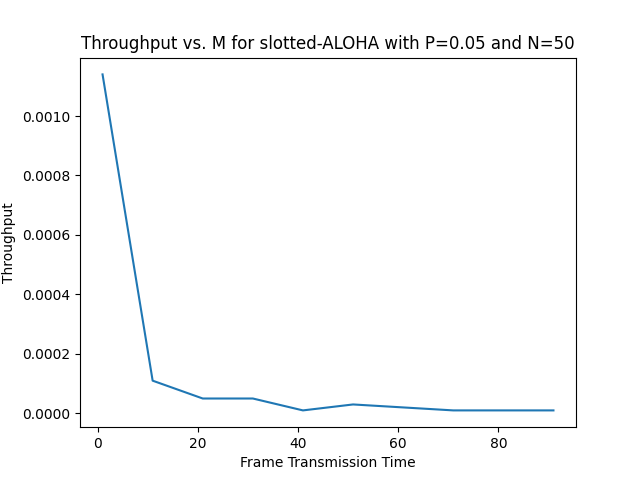
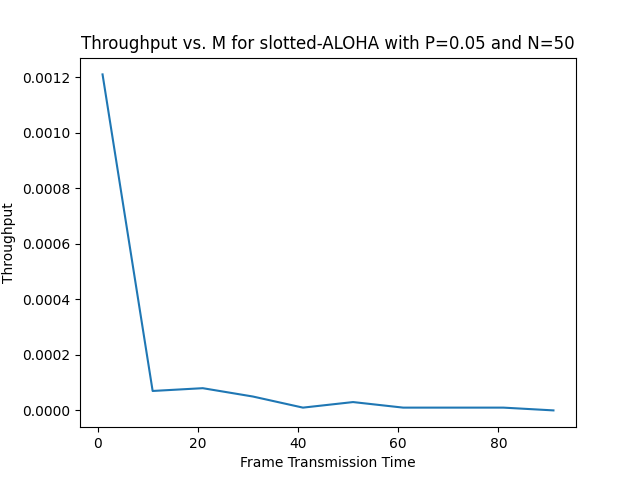
merge graphs, unslottted aloha not working yet

diff --git a/main.py b/main.py
@@ -1,105 +1,38 @@
-import random
-import matplotlib.pyplot as plt
-from tqdm.auto import tqdm
-    
-def simulateAloha(numStations, transmissionProb, frameTransTime, totalSimTime, slotted=False):
-    # Initialize the simulation state
-    state = [0] * numStations # 0 represents idle, 1 represents transmitting
-    frames = [0] * numStations # frames waiting to be transmitted
-    delay = [0] * numStations # delay of the current frame
-    successfulTransmissions = 0 # count of successfully transmitted frames
-    collisions = 0 # count of collisions
-    # Simulate the ALOHA protocol for (totalSimTime) time units
-    # show progress bar
-    for t in range(totalSimTime):
-        # Stations generate frames with probability (transmissionProb)
-        for i in range(numStations):
-            if random.random() < transmissionProb:
-                frames[i] += 1
-        # Stations transmit frames if they have any
-        for i in range(numStations):
-            # if the station is idle and has frames to transmit
-            if frames[i] > 0 and state[i] == 0:
-                # check if the station is in the delay period
-                if delay[i] > 0:
-                    delay[i] -= 1
-                    continue
-                # if slotted ALOHA, onl y transmit at the beginning of a time slot
-                if slotted and t % frameTransTime != 0:
-                    continue # not a valid time slot
-                state[i] = 1 # start transmitting
-                frames[i] -= 1 # decrement the number of frames to transmit
-        # Check for collisions
-        activeStations = sum(state) # number of stations transmitting
-        if activeStations > 1: # if more than one station is transmitting
-            collisions += 1
-            for i in range(numStations):
-                # if the station is transmitting
-                if state[i] == 1:
-                    frames[i] += 1 # increment the number of frames to transmit
-                    state[i] = 0 # stop transmitting
-                    delay[i] += random.randint(0, 10) * frameTransTime # set a random delay
-        elif activeStations == 1: # if exactly one station is transmitting
-            successfulTransmissions += 1
-            for i in range(numStations):
-                if state[i] == 1: # if the station is transmitting
-                    state[i] = 0 # stop transmitting
+from aloha import simulateAloha
+from plotting import plot_throughput_vs_N, plot_throughput_vs_M, plot_throughput_vs_MM
 
-    return successfulTransmissions, collisions, state
-
-def plot_throughput_vs_N(numStationsValues, transmissionProb, frameTransTime, totalSimTime, slotted=False):
-    throughputValues = []
-    for N in tqdm(numStationsValues):
-        successfulTransmissions, collisions, _ = simulateAloha(N, transmissionProb, frameTransTime, totalSimTime, slotted)
-        throughput = successfulTransmissions / totalSimTime
-        throughputValues.append(throughput)
-    plt.figure()
-    plt.plot(numStationsValues, throughputValues)
-    plt.xlabel('Number of Stations')
-    plt.ylabel('Throughput')
-    title = 'Throughput vs. N for {}-ALOHA with P={} and M={}'.format('slotted' if slotted else 'unslotted', transmissionProb, frameTransTime)
-    plt.title(title)
-    # plt.show()
-    plt.savefig('output/' + title + '.png')
-
-
-def plot_throughput_vs_M(numStations, transmissionProb, frameTransTimeValues, totalSimTime, slotted=False):
-    throughputValues = []
-    for frameTransTime in tqdm(frameTransTimeValues):
-        successfulTransmissions, _, _ = simulateAloha(numStations, transmissionProb, frameTransTime, totalSimTime, slotted)
-        throughput = successfulTransmissions / totalSimTime
-        throughputValues.append(throughput)
-    plt.figure()
-    plt.plot(frameTransTimeValues, throughputValues)
-    plt.xlabel('Frame Transmission Time')
-    plt.ylabel('Throughput')
-    title = 'Throughput vs. M for {}-ALOHA with P={} and N={}'.format('slotted' if slotted else 'unslotted', transmissionProb, numStations)
-    plt.title(title)
-    # plt.show()
-    plt.savefig('output/' + title + '.png')
 
 def main():
-    transmissionProb = 0.05 # probability of transmission
-    totalSimTime = 100000 # total simulation time
+    transmissionProb = 0.05  # probability of transmission
+    totalSimTime = 10000  # total simulation time
 
     # Plot throughput vs. N for both unslotted and slotted ALOHA
-    # numStationsValues = [10, 20, 30, 40, 50, 60, 70, 80, 90, 100]
-    numStationsValues = list(range(10, 101, 10))
-    frameTransTime = 1 # transmission time
-    plot_throughput_vs_N(numStationsValues, transmissionProb, frameTransTime, totalSimTime, slotted=False)
-    plot_throughput_vs_N(numStationsValues, transmissionProb, frameTransTime, totalSimTime, slotted=True)
+    numStationsValues = list(range(10, 101, 20))
+    frameTransTime = 1  # transmission time
+    plot_throughput_vs_N(numStationsValues, transmissionProb,
+                         frameTransTime, totalSimTime)
+    plot_throughput_vs_N(numStationsValues, transmissionProb,
+                         frameTransTime, totalSimTime)
 
     # Plot throughput vs. M for both unslotted and slotted ALOHA
-    numStations = 50 # number of stations
-    # frameTransTimes = [1, 2, 3, 4, 5, 6, 7, 8, 9, 10] # transmission time values to test
-    frameTransTimeValues = list(range(1, 101, 10)) # transmission time values to test
-    maxThroughput = numStations * transmissionProb * (1 - transmissionProb) ** (numStations - 1)
+    numStations = 10  # number of stations
+    # transmission time values to test
+    frameTransTimeValues = list(range(1, 51, 5))
+    maxThroughput = numStations * transmissionProb * \
+        (1 - transmissionProb) ** (numStations - 1)
     maxThroughputFrameTransTimeSlotted = 1 / (2 * transmissionProb)
     maxThroughputFrameTransTimeUnslotted = 1 / transmissionProb
-    plot_throughput_vs_M(numStations, transmissionProb, frameTransTimeValues, totalSimTime, slotted=False)
-    plot_throughput_vs_M(numStations, transmissionProb, frameTransTimeValues, totalSimTime, slotted=True)
-    print('Maximum throughput for unslotted ALOHA: {} at M = {}'.format(maxThroughput, maxThroughputFrameTransTimeUnslotted))
-    print('Maximum throughput for slotted ALOHA: {} at M = {}'.format(maxThroughput, maxThroughputFrameTransTimeSlotted))
-    
+    plot_throughput_vs_M(numStations, transmissionProb,
+                         frameTransTimeValues, totalSimTime)
+    plot_throughput_vs_M(numStations, transmissionProb,
+                         frameTransTimeValues, totalSimTime)
+    plot_throughput_vs_MM(numStations, transmissionProb,
+                         frameTransTimeValues, totalSimTime)
+    print('Maximum throughput for unslotted ALOHA: {} at M = {} and P = {}'.format(
+        maxThroughput, maxThroughputFrameTransTimeUnslotted, transmissionProb))
+    print('Maximum throughput for slotted ALOHA: {} at M = {} and P = {}'.format(
+        maxThroughput, maxThroughputFrameTransTimeSlotted, transmissionProb))
+
+
 if __name__ == '__main__':
     main()

diff --git a/plotting.py b/plotting.py
@@ -1,0 +1,93 @@
+import matplotlib.pyplot as plt
+from tqdm.auto import tqdm
+from aloha import simulateAloha
+
+
+def get_throughput_vs_N(numStationsValues, transmissionProb, frameTransTime, totalSimTime, slotted):
+    throughputValues = []
+    for N in tqdm(numStationsValues, desc='N'):
+        successfulTransmissions, collisions, _ = simulateAloha(
+            N, transmissionProb, frameTransTime, totalSimTime, slotted)
+        throughput = successfulTransmissions / totalSimTime
+        throughputValues.append(throughput)
+    return throughputValues
+
+
+def plot_throughput_vs_N(numStationsValues, transmissionProb, frameTransTime, totalSimTime):
+    throughputValues_slotted = get_throughput_vs_N(
+        numStationsValues, transmissionProb, frameTransTime, totalSimTime, slotted=False)
+    throughputValues_unslotted = get_throughput_vs_N(
+        numStationsValues, transmissionProb, frameTransTime, totalSimTime, slotted=True)
+    # plot the results in the same figure
+    plt.figure()
+    plt.plot(numStationsValues, throughputValues_slotted, label='slotted')
+    plt.plot(numStationsValues, throughputValues_unslotted, label='unslotted')
+    plt.xlabel('Number of Stations')
+    plt.ylabel('Throughput')
+    title = 'Throughput vs. N for ALOHA with P={} and M={}'.format(
+        transmissionProb, frameTransTime)
+    plt.title(title)
+    plt.legend()
+    # plt.show()
+    plt.savefig('output/' + title + '.png')
+
+
+def get_throughput_vs_M(numStations, transmissionProb, frameTransTimeValues, totalSimTime, slotted):
+    throughputValues = []
+    for frameTransTime in tqdm(frameTransTimeValues):
+        successfulTransmissions, _, _ = simulateAloha(
+            numStations, transmissionProb, frameTransTime, totalSimTime, slotted)
+        throughput = successfulTransmissions / totalSimTime
+        throughputValues.append(throughput)
+    return throughputValues
+
+
+def plot_throughput_vs_M(numStations, transmissionProb, frameTransTimeValues, totalSimTime):
+    throughputValues_slotted = get_throughput_vs_M(
+        numStations, transmissionProb, frameTransTimeValues, totalSimTime, slotted=False)
+    throughputValues_unslotted = get_throughput_vs_M(
+        numStations, transmissionProb, frameTransTimeValues, totalSimTime, slotted=True)
+    plt.figure()
+    plt.plot(frameTransTimeValues, throughputValues_slotted, label='slotted')
+    plt.plot(frameTransTimeValues, throughputValues_unslotted, label='unslotted')
+    plt.xlabel('Frame Transmission Time')
+    plt.ylabel('Throughput')
+    title = 'Throughput vs. M for ALOHA with P={} and N={}'.format(
+        transmissionProb, numStations)
+    plt.title(title)
+    plt.legend()
+    # plt.show()
+    plt.savefig('output/' + title + '.png')
+
+# def plot_throughput_vs_N(numStationsValues, transmissionProb, frameTransTime, totalSimTime, slotted=False):
+#     throughputValues = []
+#     for N in tqdm(numStationsValues):
+#         successfulTransmissions, collisions, _ = simulateAloha(N, transmissionProb, frameTransTime, totalSimTime, slotted)
+#         throughput = successfulTransmissions / totalSimTime
+#         throughputValues.append(throughput)
+#     plt.figure()
+#     plt.plot(numStationsValues, throughputValues)
+#     plt.xlabel('Number of Stations')
+#     plt.ylabel('Throughput')
+#     title = 'Throughput vs. N for {}-ALOHA with P={} and M={}'.format('slotted' if slotted else 'unslotted', transmissionProb, frameTransTime)
+#     plt.title(title)
+#     # plt.show()
+#     plt.savefig('output/' + title + '.png')
+
+
+def plot_throughput_vs_MM(numStations, transmissionProb, frameTransTimeValues, totalSimTime, slotted=False):
+    throughputValues = []
+    for frameTransTime in tqdm(frameTransTimeValues):
+        successfulTransmissions, _, _ = simulateAloha(
+            numStations, transmissionProb, frameTransTime, totalSimTime, slotted)
+        throughput = successfulTransmissions / totalSimTime
+        throughputValues.append(throughput)
+    plt.figure()
+    plt.plot(frameTransTimeValues, throughputValues)
+    plt.xlabel('Frame Transmission Time')
+    plt.ylabel('Throughput')
+    title = 'Throughput vs. M for {}-ALOHA with P={} and N={}'.format(
+        'slotted' if slotted else 'unslotted', transmissionProb, numStations)
+    plt.title(title)
+    # plt.show()
+    plt.savefig('output/' + title + '.png')

diff --git a/aloha.py b/aloha.py
@@ -1,0 +1,52 @@
+import random
+
+
+def simulateAloha(numStations, transmissionProb, frameTransTime, totalSimTime, slotted=False):
+    # Initialize the simulation state
+    state = [0] * numStations  # 0 represents idle, 1 represents transmitting
+    frames = [0] * numStations  # frames waiting to be transmitted
+    delay = [0] * numStations  # delay of the current frame
+    successfulTransmissions = 0  # count of successfully transmitted frames
+    collisions = 0  # count of collisions
+    # Simulate the ALOHA protocol for (totalSimTime) time units
+    # show progress bar
+    for t in range(totalSimTime):
+        # Stations generate frames with probability (transmissionProb)
+        for i in range(numStations):
+            if random.random() < transmissionProb:
+                frames[i] += 1
+        # Stations transmit frames if they have any
+        for i in range(numStations):
+            # if the station is idle and has frames to transmit
+            if frames[i] > 0 and state[i] == 0:
+                # check if the station is in the delay period
+                if delay[i] > 0:
+                    delay[i] -= 1
+                    continue
+                # if slotted ALOHA, onl y transmit at the beginning of a time slot
+                if slotted and t % frameTransTime != 0:
+                    continue  # not a valid time slot
+                state[i] = 1  # start transmitting
+                frames[i] -= 1  # decrement the number of frames to transmit
+        # Check for collisions
+        activeStations = sum(state)  # number of stations transmitting
+        if activeStations > 1:  # if more than one station is transmitting
+            collisions += 1
+            for i in range(numStations):
+                # if the station is transmitting
+                if state[i] == 1:
+                    # increment the number of frames to transmit
+                    frames[i] += 1
+                    state[i] = 0  # stop transmitting
+                    # set a random delay
+                    delay[i] += random.randint(0, 10) * frameTransTime
+        elif activeStations == 1:  # if exactly one station is transmitting
+            successfulTransmissions += 1
+            for i in range(numStations):
+                if state[i] == 1:  # if the station is transmitting
+                    state[i] = 0  # stop transmitting
+
+    return successfulTransmissions, collisions, state
+
+
+
